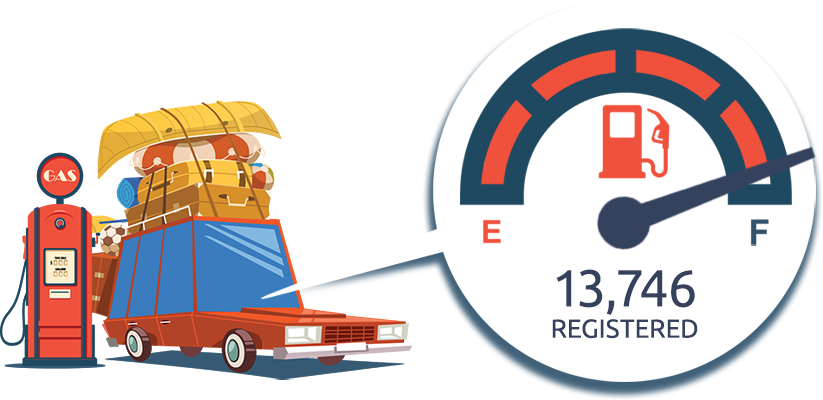
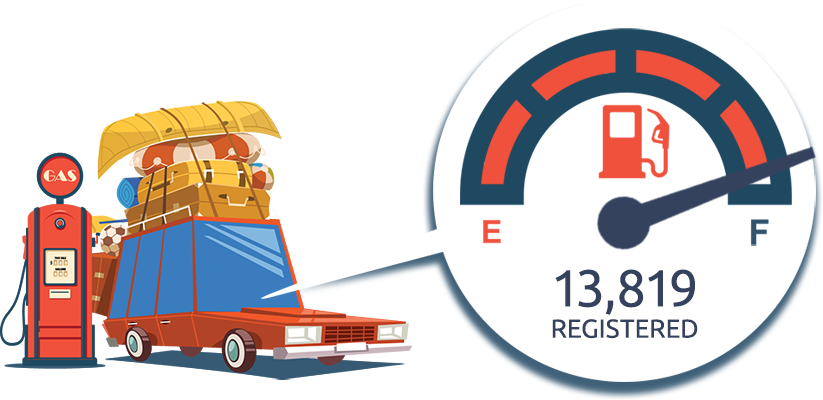
count update

Changed region(s): [[0.6683, 0.66, 0.8505, 0.78]]

diff --git a/summer-reading/registration/index.html b/summer-reading/registration/index.html
@@ -442,7 +442,7 @@ height="0" width="0" style="display:none;visibility:hidden"></iframe>
         <div class="box-one">
           <h4 class="black roboto no-margin-top">Help us meet our community goal of 16,775 people signed up!</h4>
           <div>If we meet our goal, the Douglas County Libraries Foundation will donate $500 to Nature’s Educators, a top-rated nonprofit educational wildlife organization in Douglas County. </div>
-          <div class="margin-10"><span class="odometer">1</span><span class="odometer">3</span><span class="font-weight-500 black">,</span><span class="odometer">7</span><span class="odometer">4</span><span class="odometer">6</span></div>
+          <div class="margin-10"><span class="odometer">1</span><span class="odometer">3</span><span class="font-weight-500 black">,</span><span class="odometer">8</span><span class="odometer">1</span><span class="odometer">9</span></div>
           <div class="small text-uppercase">Registered</div>
         </div>
         <div class="box-two">

diff --git a/index.html b/index.html
@@ -441,7 +441,7 @@ height="0" width="0" style="display:none;visibility:hidden"></iframe>
               <p>If we meet our goal...</p>
               <p>the Douglas County Libraries Foundation...</p>
               <p>will donate $500 to Nature’s Educators.</p>
-              <p>We only need 3,029 more earthlings to sign up.</p>
+              <p>We only need 2,956 more earthlings to sign up.</p>
               <p><a style="color:#fff;" href="summer-reading/">Register Now!</a></p>
             </div>
             <span id="typed" style="white-space:pre;"></span> </div>
